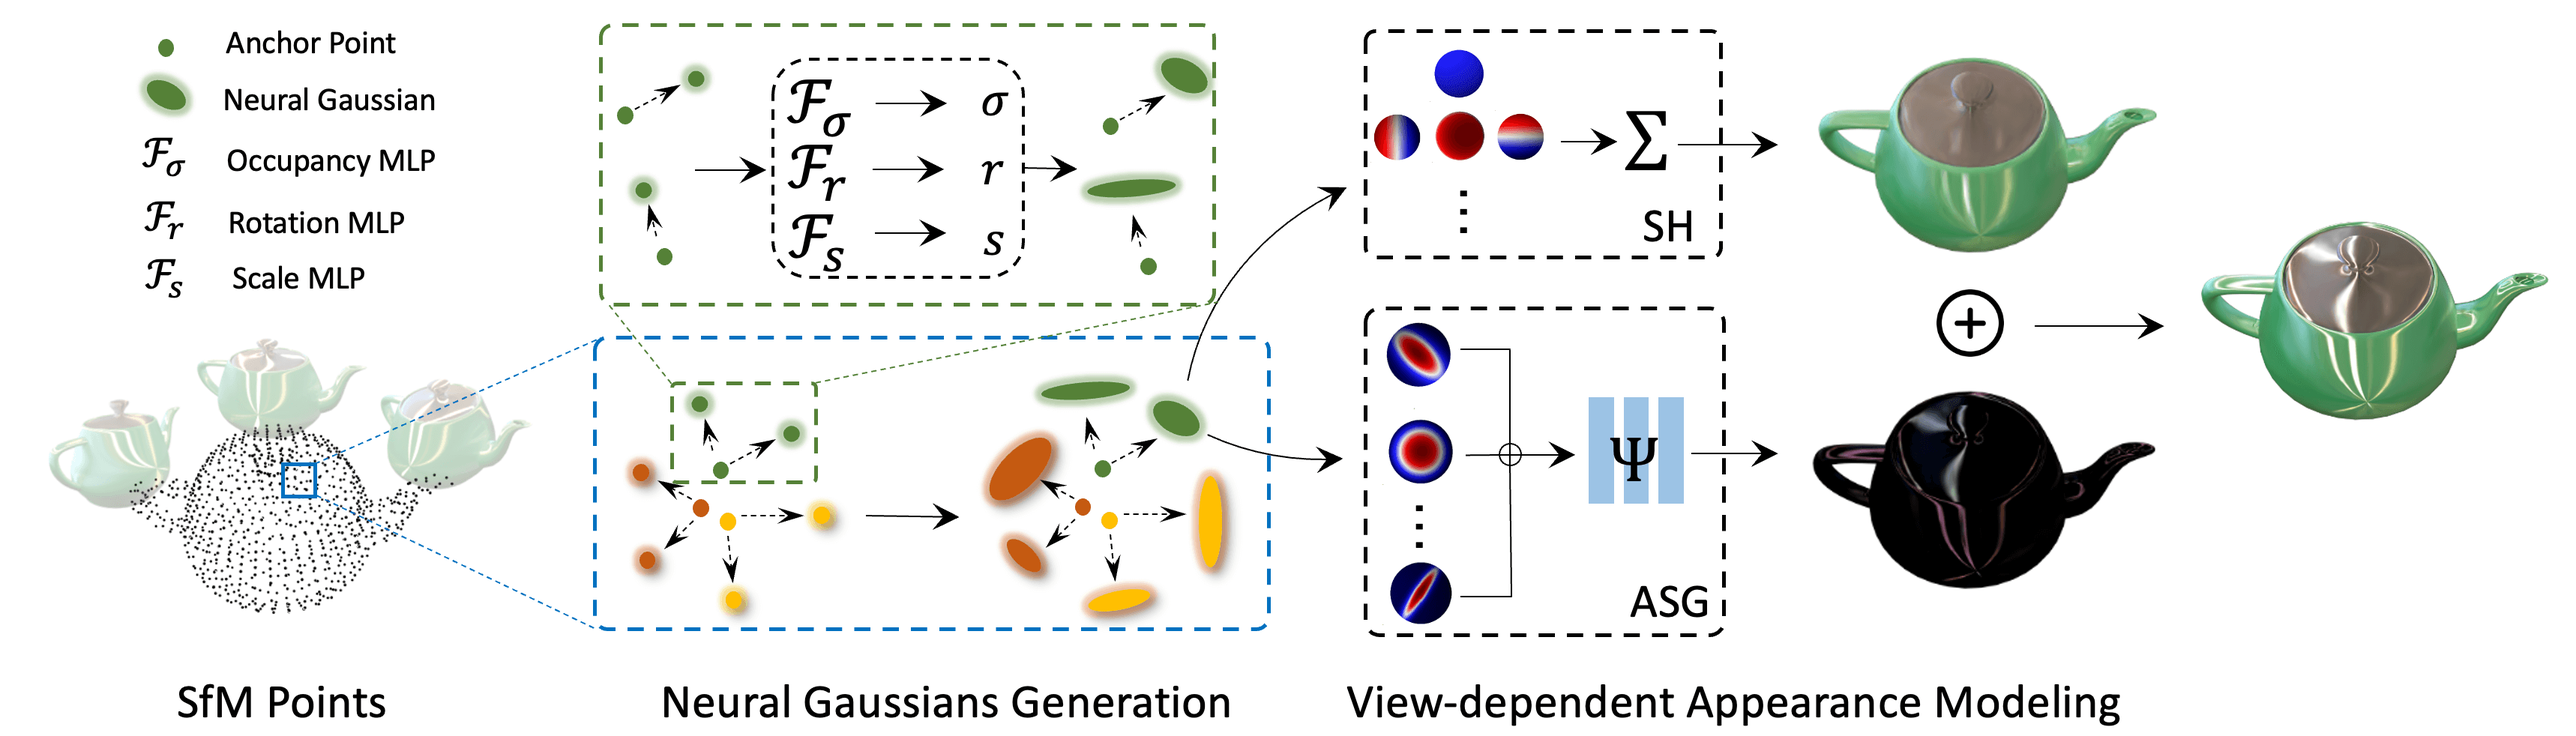
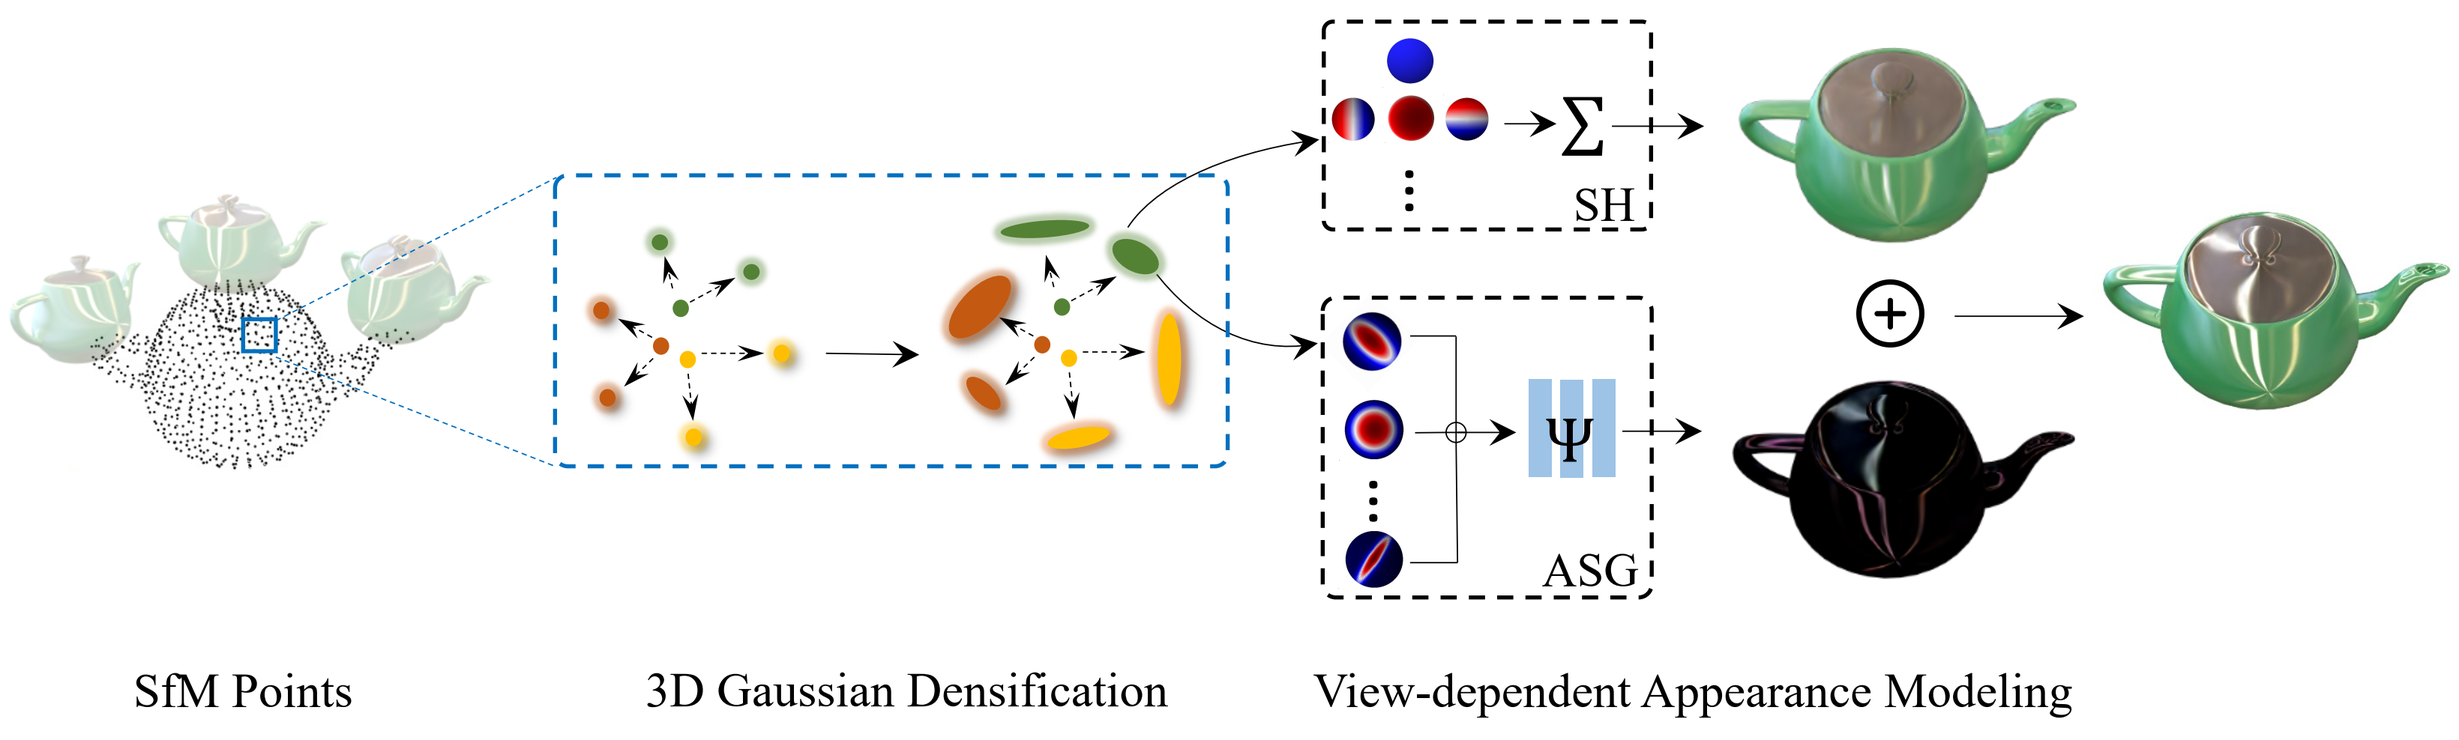
Update images aligned with nips version

diff --git a/README.md b/README.md
@@ -130,7 +130,18 @@ python train_anchor.py -s data/mipnerf-360/bonsai -m outputs/mip360/bonsai --eva
 
 ![real](assets/real.png)
 
+
+
+### Ablation
+
+![ablation-asg](assets/ablation-asg.png)
+
+![ablation-c2f](assets/ablation-c2f.png)
+
+
+
 ### Align with Rip-NeRF
+
 The Tri-MipRF and Rip-NeRF use both train and val set and the training data. I provided the results on NeRF-synthetic dataset with the same setting.
 | Scene     | PSNR   | SSIM      | LPIPS    |
 | --------- | ------ | --------- | -------- |
